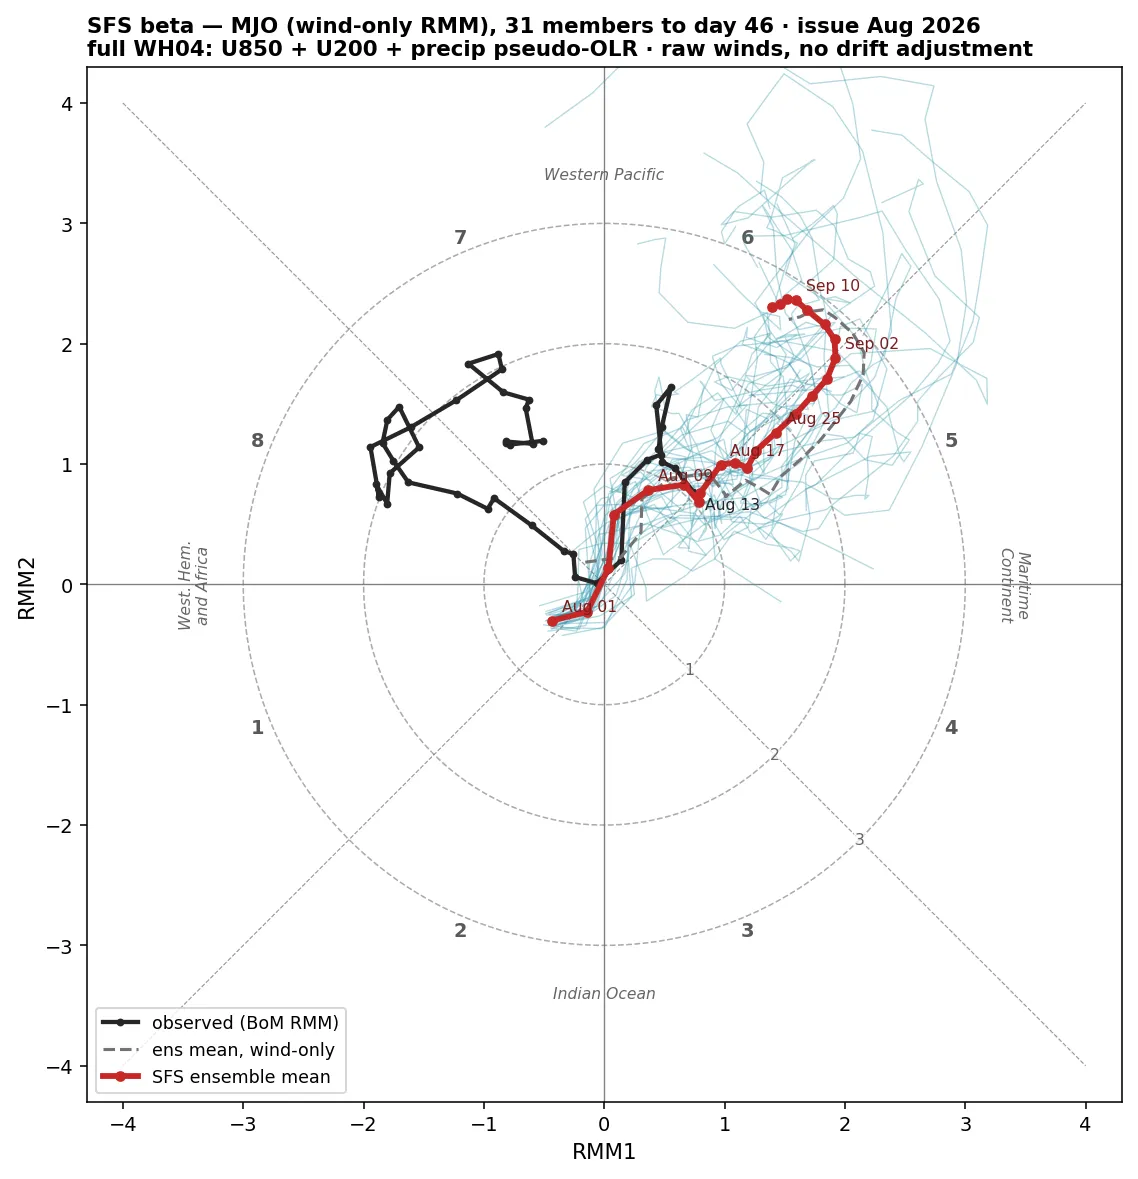
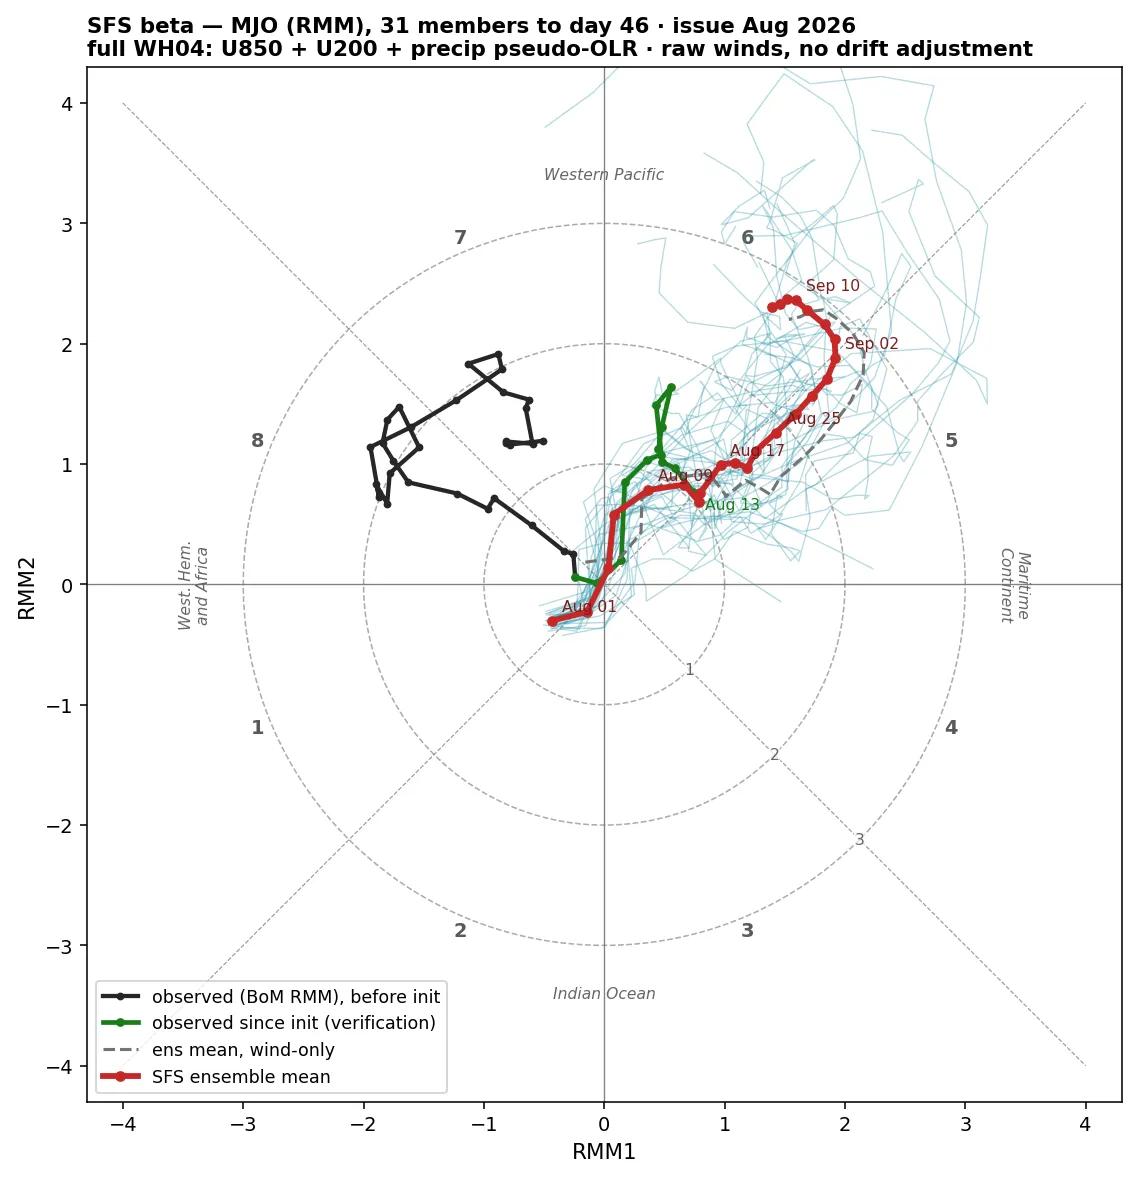
SFS MJO: color the post-init BoM observed points as verification
Observed trail now splits at the forecast init: pre-init in black,
on/after-init in green ('observed since init (verification)') with the
endpoint date in green — the last ~2 weeks of BoM points verify this
forecast directly. Title updated (full WH04, not wind-only); cache-buster
bumped.

diff --git a/sfs.html b/sfs.html
@@ -270,7 +270,7 @@
     Teal spaghetti: members (every other day); red: ensemble mean (dashed grey:
     wind-only reference); black: the observed track from the <em>official</em>
     BoM RMM index.</p>
-    <img src="assets/sfs/mjo_rmm.webp?v=202608161" alt="SFS beta MJO RMM phase-space forecast, 31 members"
+    <img src="assets/sfs/mjo_rmm.webp?v=202608162" alt="SFS beta MJO RMM phase-space forecast, 31 members"
       style="width:100%;max-width:820px;display:block;margin:0 auto;border-radius:8px" loading="lazy">
     <div class="chart-card-footer">
       <span class="chart-sources">SFS beta atm_daily zarr, UGRD 850/200 hPa +

diff --git a/scripts/sfs/sfs_mjo.py b/scripts/sfs/sfs_mjo.py
@@ -215,9 +215,23 @@ def main():
     draw_phase_wheel(ax)
     for m in range(rmm1.shape[0]):
         ax.plot(rmm1[m], rmm2[m], color="#2e97ad", lw=0.7, alpha=0.35)
-    ax.plot(o1, o2, color="0.15", lw=2.2, marker="o", ms=3, label=obs_label)
+    # split the observed trail at the forecast init: points on/after t0
+    # verify THIS forecast, drawn in their own color (the boundary point is
+    # shared so the line stays continuous)
+    o1 = np.asarray(o1); o2 = np.asarray(o2)
+    pre = np.asarray([pd.Timestamp(d) < t0 for d in obs_dates])
+    ipre = np.where(pre)[0]
+    ipost = np.where(~pre)[0]
+    if len(ipre):
+        seg = np.r_[ipre, ipost[:1]] if len(ipost) else ipre
+        ax.plot(o1[seg], o2[seg], color="0.15", lw=2.2, marker="o", ms=3,
+                label=f"{obs_label}, before init")
+    if len(ipost):
+        ax.plot(o1[ipost], o2[ipost], color="#1a7d1a", lw=2.4, marker="o",
+                ms=3.5, label="observed since init (verification)")
     ax.annotate(f"{obs_dates[-1]:%b %d}", (o1[-1], o2[-1]), fontsize=8,
-                color="0.15", xytext=(6, -9), textcoords="offset points")
+                color="#1a7d1a" if len(ipost) else "0.15",
+                xytext=(6, -9), textcoords="offset points")
     ax.plot(rmm1w.mean(axis=0), rmm2w.mean(axis=0), color="0.45", lw=1.6,
             ls="--", label="ens mean, wind-only")
     mm1, mm2 = rmm1.mean(axis=0), rmm2.mean(axis=0)
@@ -226,7 +240,7 @@ def main():
     for i in range(0, len(valid), 4):
         ax.annotate(f"{valid[i]:%b %d}", (mm1[i], mm2[i]), fontsize=8,
                     color="#7a1d1d", xytext=(5, 5), textcoords="offset points")
-    ax.set_title(f"SFS beta — MJO (wind-only RMM), 31 members to day "
+    ax.set_title(f"SFS beta — MJO (RMM), 31 members to day "
                  f"{int(lead_days[sel][-1])} · issue {t0:%b %Y}\n"
                  "full WH04: U850 + U200 + precip pseudo-OLR · raw winds, "
                  "no drift adjustment", fontsize=11, fontweight="bold",
